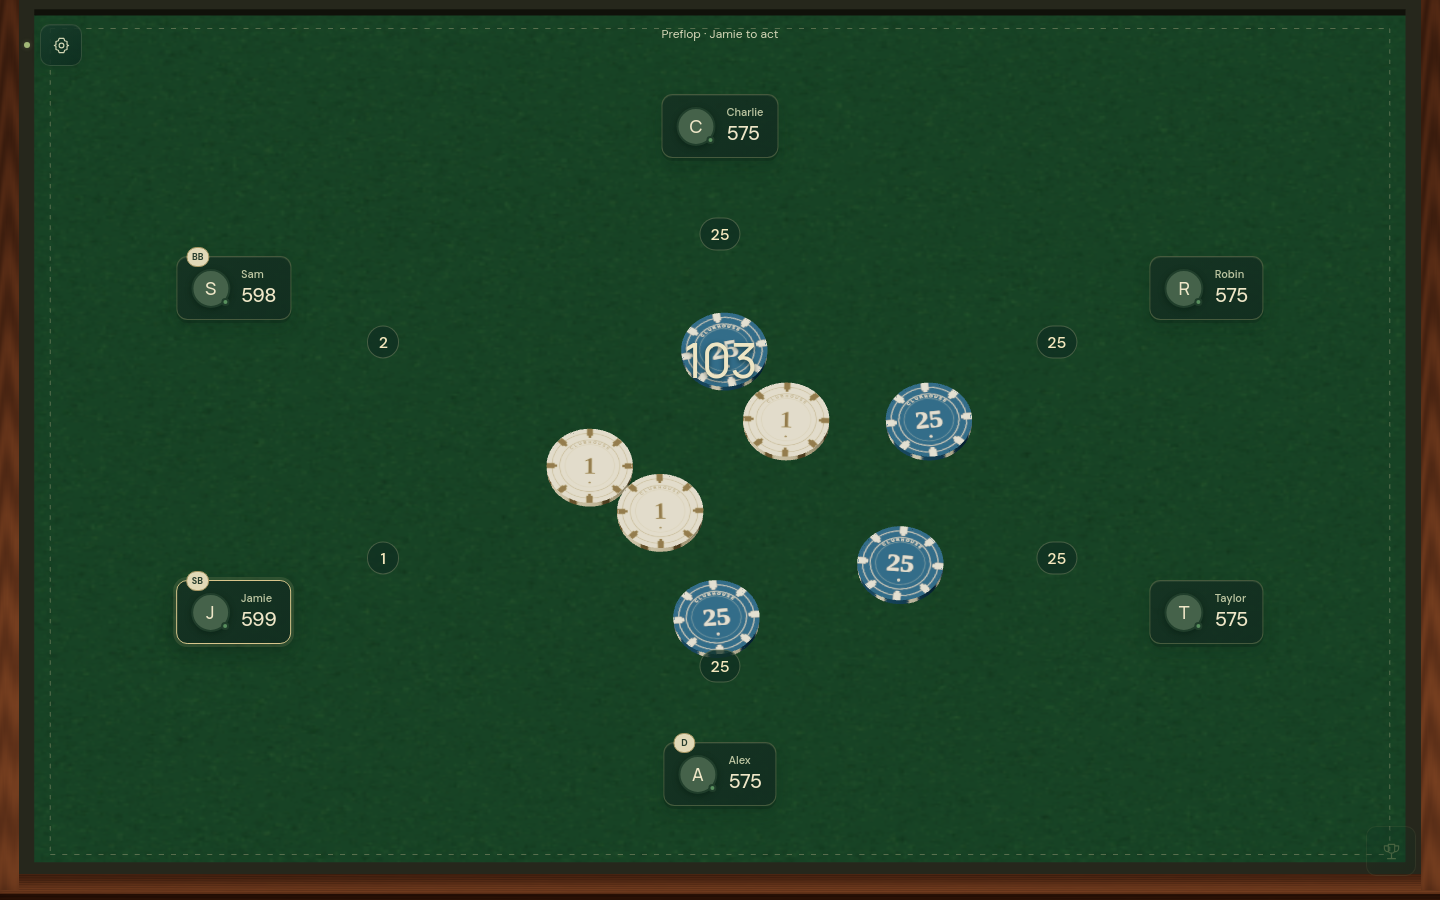
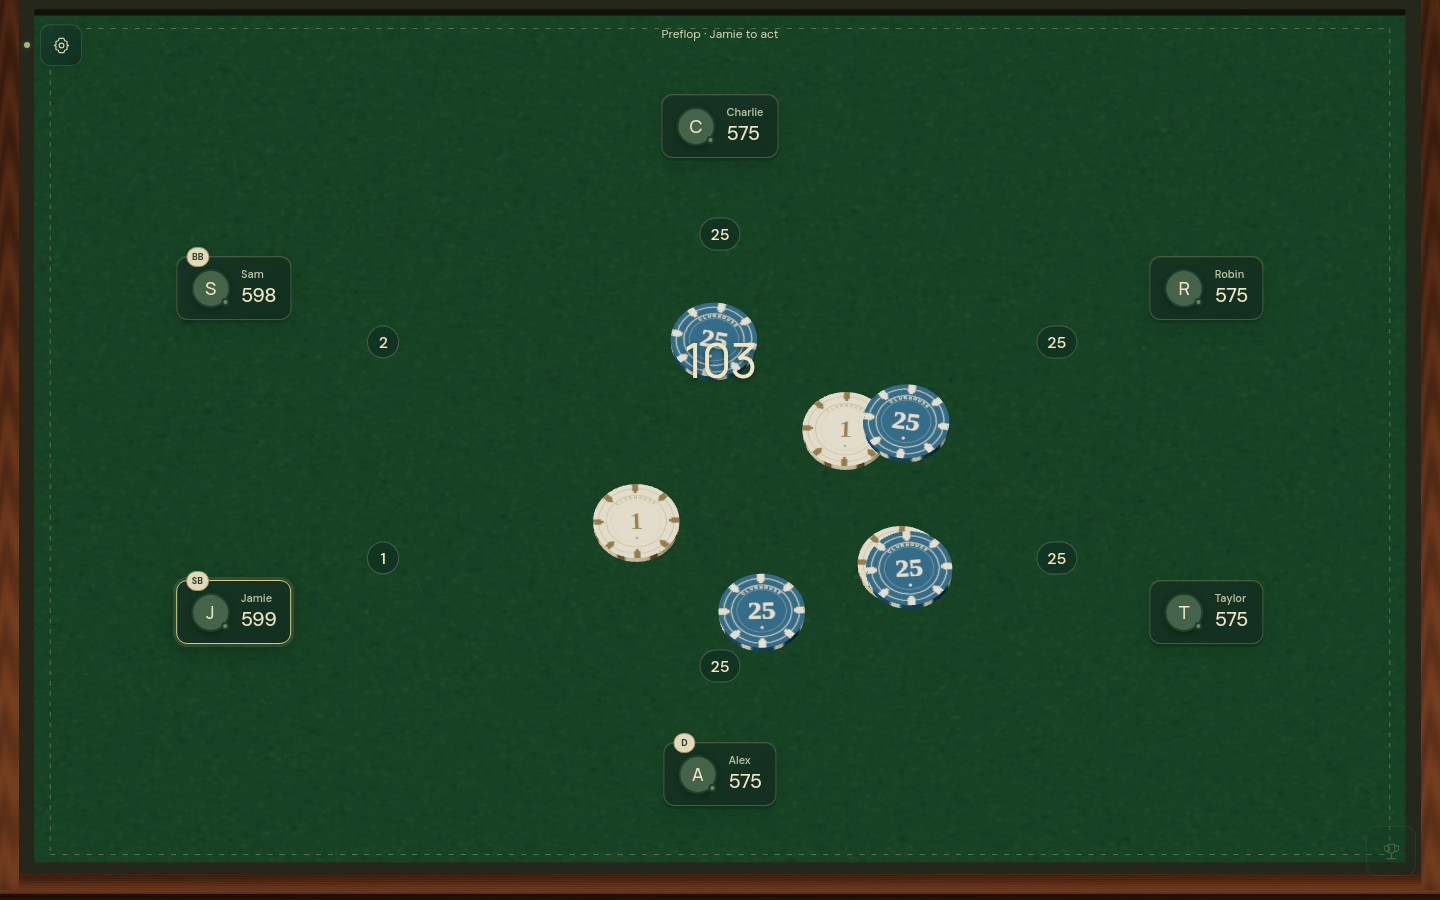
Keep crowded chip animations stable across display frame rates

Changed region(s): [[0.375, 0.4667, 0.5625, 0.7467], [0.4688, 0.3422, 0.6875, 0.5289], [0.5938, 0.5911, 0.6875, 0.6844]]

diff --git a/public/chip-physics.js b/public/chip-physics.js
@@ -16,13 +16,17 @@ export class ChipPhysics {
     this.chips = new Set();this.walls=[];this.onImpact=onImpact;
     this.lastImpact=-1;this.contactTimes=new Map();this.accumulator=0;
   }
-  create({x=0,y=1,z=0,rotation=Math.PI/2,velocity,spin}={}) {
+  create({x=0,y=1,z=0,rotation=Math.PI/2,velocity,spin,flat=false}={}) {
     const body=new CANNON.Body({mass:.011,material:this.chipMaterial,shape:this.shape,allowSleep:true,sleepSpeedLimit:.3,sleepTimeLimit:.6,linearDamping:.35,angularDamping:.8});
     body.position.set(x,y,z);body.quaternion.setFromEuler(0,rotation,0);
+    // Pot chips slide, bounce and spin on the tabletop. Keeping them flat
+    // avoids unstable edge contacts between dozens of very thin cylinders.
+    if(flat)body.angularFactor.set(0,1,0);
     // Newly placed chips must start above neighbours, rather than intersecting
     // them and making the solver violently eject both chips.
     this.placeClear(body);
     if(velocity)body.velocity.set(...velocity);if(spin)body.angularVelocity.set(...spin);
+    if(flat){body.angularVelocity.x=0;body.angularVelocity.z=0;}
     body.addEventListener('collide',event=>{
       if(body.holdTarget || event.body.holdTarget)return;
       const impact=event.contact.getImpactVelocityAlongNormal();
@@ -96,11 +100,12 @@ export class ChipPhysics {
       this.placeClear(body);body.wakeUp();
     }
   }
-  step(elapsed){
+  step(elapsed,beforeStep){
     // Thin chips need substeps shorter than a fast chip can cross its own thickness.
     const fixedStep=1/240;
     this.accumulator+=Math.min(Math.max(elapsed,0),.06);
     while(this.accumulator+1e-10>=fixedStep){
+      beforeStep?.();
       this.world.step(fixedStep);this.accumulator-=fixedStep;
       const supported=new Set();
       for(const contact of this.world.contacts){
@@ -109,15 +114,22 @@ export class ChipPhysics {
         if(contact.ni.y<-.35)supported.add(contact.bi);
       }
       for(const body of this.chips){
-        if(body.holdTarget || body.sleepState===CANNON.Body.SLEEPING || !supported.has(body)){delete body.restPose;continue;}
+        if(body.holdTarget || body.sleepState===CANNON.Body.SLEEPING){delete body.restPose;continue;}
+        if(!supported.has(body)){
+          // A one-substep gap in a resting contact is solver noise. Preserve
+          // its pose window briefly, but only sleep while actually supported.
+          if(this.world.time-(body.lastSupportedAt ?? -Infinity)>.05)delete body.restPose;
+          continue;
+        }
+        body.lastSupportedAt=this.world.time;
         const rest=body.restPose;
         const q=body.quaternion;
         // Thin stacked chips can have noisy instantaneous velocities even when
         // their actual poses barely move. Sleep supported, stable poses too;
         // never use this rule for falling, sliding, or finger-held chips.
-        if(!rest || body.position.distanceTo(rest.position)>.015 || Math.abs(q.x*rest.rotation.x+q.y*rest.rotation.y+q.z*rest.rotation.z+q.w*rest.rotation.w)<Math.cos(.04/2)){
+        if(!rest || body.position.distanceTo(rest.position)>.025 || Math.abs(q.x*rest.rotation.x+q.y*rest.rotation.y+q.z*rest.rotation.z+q.w*rest.rotation.w)<Math.cos(.08/2)){
           body.restPose={position:body.position.clone(),rotation:q.clone(),since:this.world.time};
-        }else if(this.world.time-rest.since>.75){body.sleep();delete body.restPose;}
+        }else if(this.world.time-rest.since>.5){body.sleep();delete body.restPose;}
       }
     }
     for(const [key,time]of this.contactTimes)if(this.world.time-time>1)this.contactTimes.delete(key);

diff --git a/public/table3d.js b/public/table3d.js
@@ -8,9 +8,11 @@ const reducedMotion = matchMedia('(prefers-reduced-motion: reduce)').matches;
 const palette = {1:['#e3dcc2','#76694b'],5:['#a74035','#f0dfbf'],25:['#315f81','#e5e6d2'],100:['#252d2b','#e3d3a5']};
 const surfaces = new Map();
 const chipMaterials = new Map();
-// Leave a small visual clearance inside the collider so settled faces cannot z-fight.
-const sharedGeometry = new THREE.CylinderGeometry(.465,.465,.08,48);
-const edgeGeometry = new THREE.TorusGeometry(.451,.0035,6,48);
+// Keep the round mesh inside the flat facets of the 12-sided collider.
+// Both the face and its rim need clearance to avoid z-fighting at contact.
+const visualRadius=.47*Math.cos(Math.PI/12)-.002;
+const sharedGeometry = new THREE.CylinderGeometry(visualRadius,visualRadius,.08,48);
+const edgeGeometry = new THREE.TorusGeometry(visualRadius-.012,.0035,6,48);
 const raycaster = new THREE.Raycaster();
 const ground = new THREE.Plane(new THREE.Vector3(0,1,0),0);
 const ndc = new THREE.Vector2();
@@ -309,7 +311,7 @@ class Surface {
       visible.forEach((value,i)=>this.pendingThrows.push({key:`pot-${event.id}-${i}`,value,at:this.physics.world.time+plan[i].delay,options:plan[i].options}));
     }else visible.forEach((value,i)=>{
       // Restoring a pot uses the same wider landing area as live throws.
-      this.addChip(`pot-rest-${i}`,value,{x:(Math.random()-.5)*4,y:.7+Math.floor(i/8)*.1,z:(Math.random()-.5)*2.4+.45,rotation:Math.PI/2+(Math.random()-.5)*.1},{kind:'pot'});
+      this.addChip(`pot-rest-${i}`,value,{x:(Math.random()-.5)*4,y:.7+Math.floor(i/8)*.1,z:(Math.random()-.5)*2.4+.45,flat:true,rotation:Math.PI/2+(Math.random()-.5)*.1},{kind:'pot'});
     });
     this.lastBet=event?.id;this.animate();this.draw();
   }
@@ -332,10 +334,13 @@ class Surface {
     const tick=now=>{
       this.frame=null;
       if(!this.parent?.isConnected)return;
-      const ready=this.pendingThrows.filter(chip=>chip.at<=this.physics.world.time);
-      this.pendingThrows=this.pendingThrows.filter(chip=>chip.at>this.physics.world.time);
-      for(const chip of ready)this.addChip(chip.key,chip.value,chip.options,{kind:'pot'});
-      this.physics.step((now-this.previousTime)/1000);this.previousTime=now;
+      this.physics.step((now-this.previousTime)/1000,()=>{
+        if(!this.pendingThrows.length)return;
+        const ready=this.pendingThrows.filter(chip=>chip.at<=this.physics.world.time);
+        this.pendingThrows=this.pendingThrows.filter(chip=>chip.at>this.physics.world.time);
+        for(const chip of ready)this.addChip(chip.key,chip.value,chip.options,{kind:'pot'});
+      });
+      this.previousTime=now;
       this.draw();
       if(this.physics.active || this.pendingThrows.length)this.frame=requestAnimationFrame(tick);
     };

diff --git a/test/browser/crowded-pot.spec.js b/test/browser/crowded-pot.spec.js
@@ -18,7 +18,8 @@ test('a large throw arrives in batches and its rendered pile stops moving',async
   });
   await expect(page.locator('.table-stage.has-3d canvas')).toBeVisible();
   await expect.poll(()=>page.evaluate(()=>window.throwWorld?.chips.size || 0),{timeout:20000}).toBe(120);
-  await expect.poll(()=>page.evaluate(()=>!throwWorld.active),{timeout:45000}).toBe(true);
+  try {await expect.poll(()=>page.evaluate(()=>!throwWorld.active),{timeout:45000}).toBe(true);}
+  catch(error){throw new Error(`${error.message}\n${JSON.stringify(await page.evaluate(()=>({time:throwWorld.world.time,awake:[...throwWorld.chips].filter(body=>body.sleepState!==2).map(body=>({y:body.position.y,speed:body.velocity.length(),spin:body.angularVelocity.length(),rest:body.restPose?throwWorld.world.time-body.restPose.since:null}))})))}`);}
   const before=await page.evaluate(()=>[...throwWorld.chips].map(body=>[...body.position.toArray(),...body.quaternion.toArray()]));
   await page.waitForTimeout(600);
   expect(await page.evaluate(()=>[...throwWorld.chips].map(body=>[...body.position.toArray(),...body.quaternion.toArray()]))).toEqual(before);

diff --git a/public/chip-throws.js b/public/chip-throws.js
@@ -13,7 +13,7 @@ export function planChipThrow({count,width,depth,angle,random=Math.random}) {
     const z=Math.max(-halfZ,Math.min(halfZ,startZ+tangentZ*lane));
     const targetX=(random()-.5)*Math.min(4.4,1.4+count*.035,width*.42);
     const targetZ=(random()-.5)*Math.min(2.2,.6+count*.02,depth*.36)+1;
-    return {delay:Math.floor(i/lanes)*.055,options:{x,y:.62,z,
+    return {delay:Math.floor(i/lanes)*.055,options:{x,y:.62,z,flat:true,
       velocity:[(targetX-x)/.82,2.2+random()*.25,(targetZ-z)/.82],
       spin:[(random()-.5)*.5,(random()-.5)*1.2,(random()-.5)*.5]}};
   });
